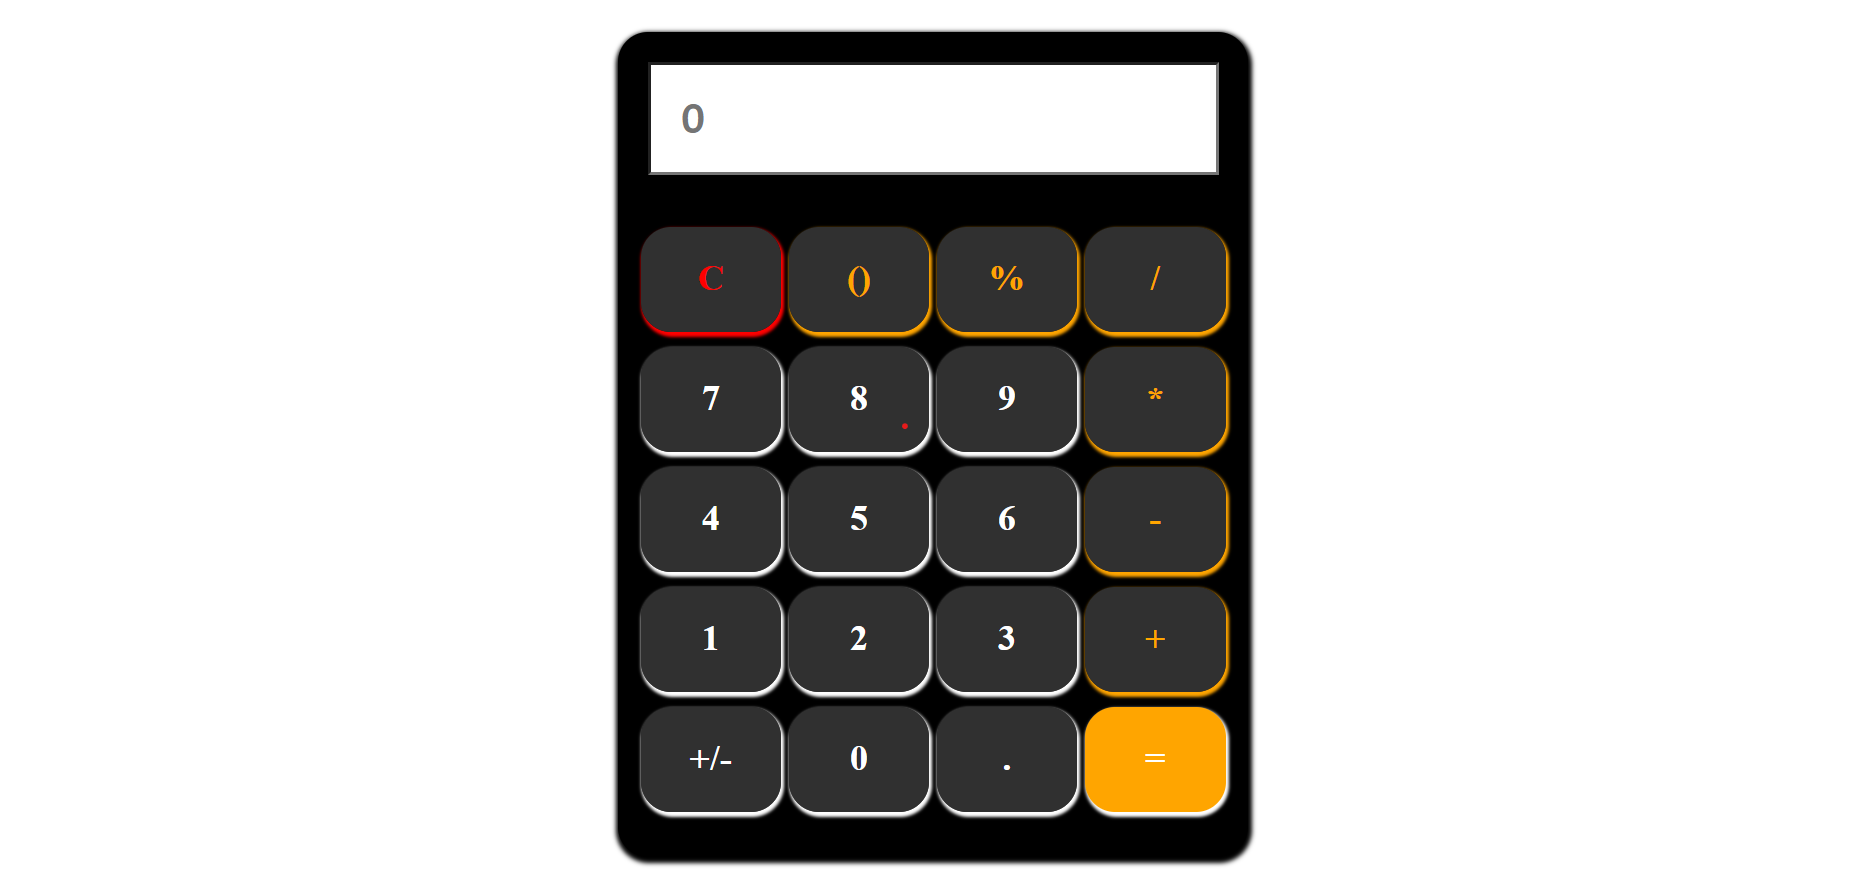
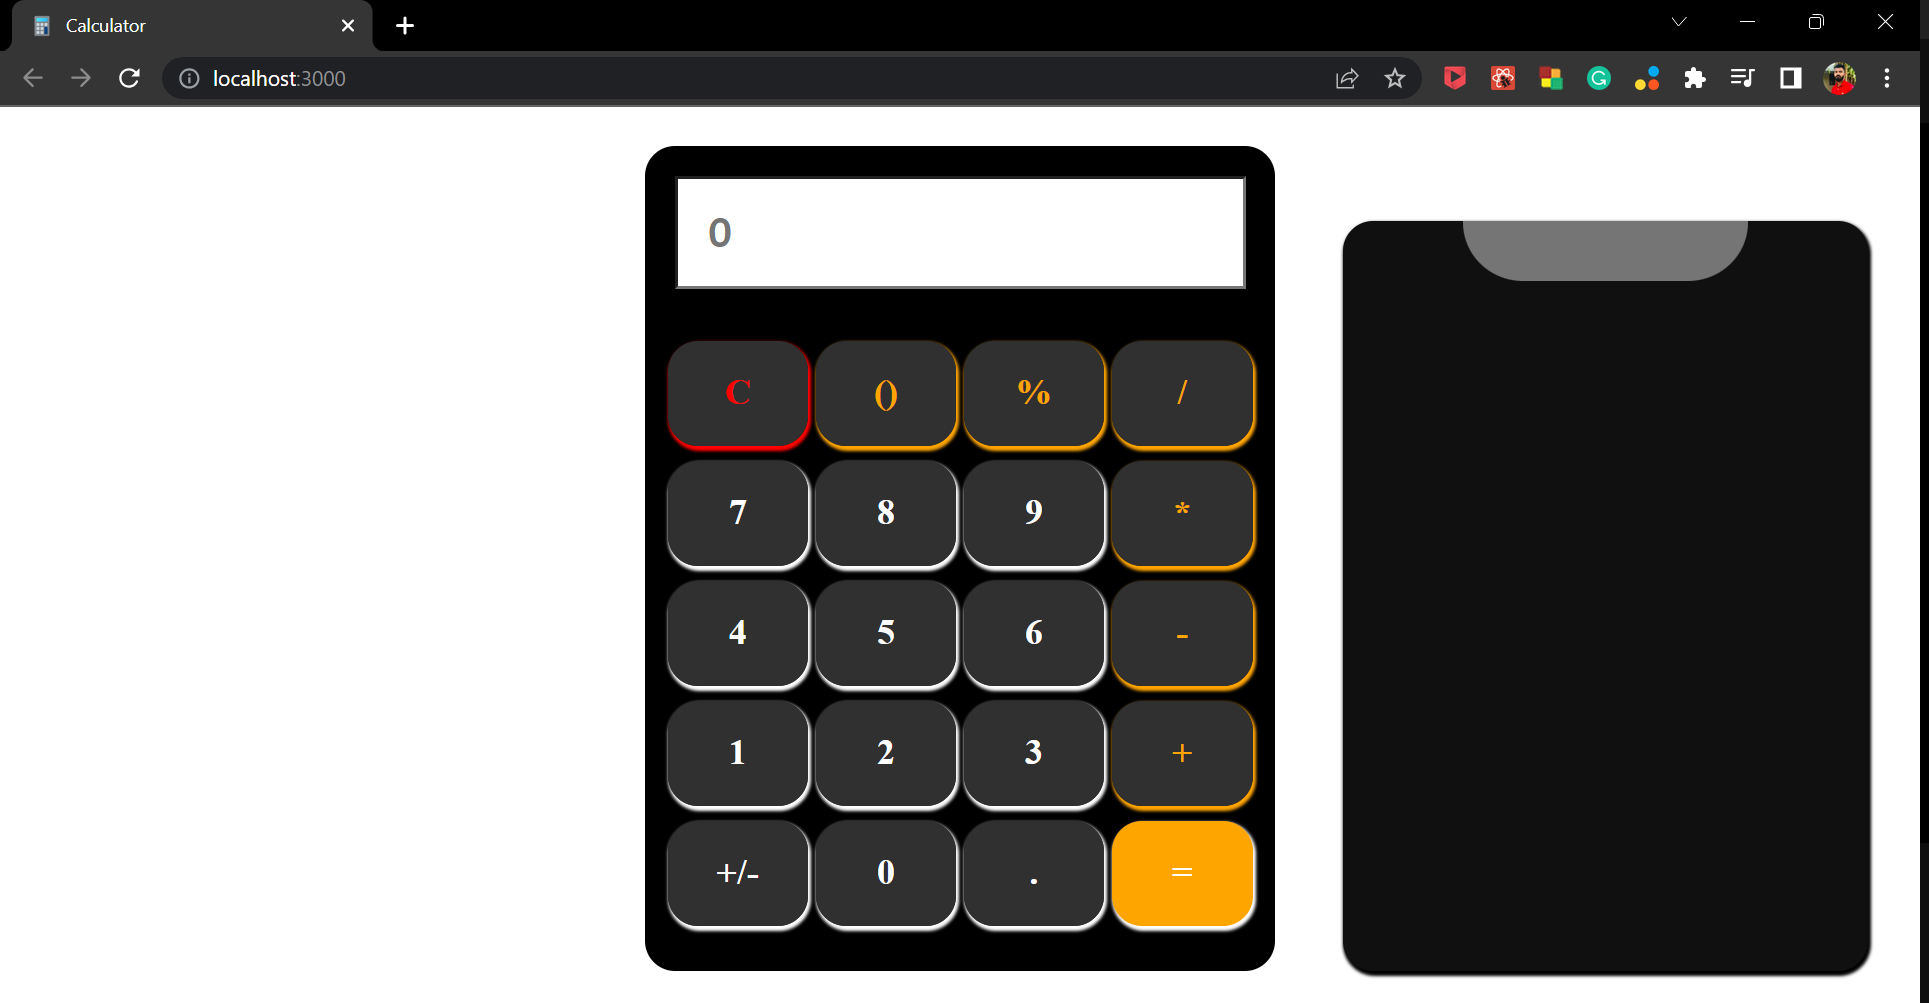
did some update

diff --git a/src/App.css b/src/App.css
@@ -1,3 +1,7 @@
+::-webkit-scrollbar {
+  display: none;
+}
+
 .container {
   position: absolute;
   top: 0;
@@ -11,7 +15,7 @@
   background-color: black;
   padding: 10px;
   border-radius: 20px;
-  box-shadow: 1px 2px 3px 2px black;
+  
 
 }
 
@@ -20,5 +24,61 @@
   flex-direction: row;
   padding: 5px;
   column-gap: 5px;
+
+}
+
+.cover {
+  height: 550px;
+  width: 418px;
+  background-color: #101010;
+  position: absolute;
+  top: 0;
+  bottom: 0;
+  left: 0;
+  right: 0;
+  margin: auto;
+  box-shadow: 1px 2px 2px 1px;
+  border-radius: 20px;
+  animation-name: casing;
+  animation-duration: 5s;
+  animation-fill-mode:forwards;
+  opacity: 1;
+}
+
+@keyframes casing {
+  0% {
+    top: 0;
+    left: 0;
+  }
+  80% {
+    bottom: -1200px;
+    left: 0;
+    right: 0;
+    height: 550px;
+    width: 418px;
+  }
+  90%{
+    height: 550px;
+    width: 418px;
+ 
+  }
+  100% {
+    top: 50px;
+    left: 860px;
+    width: 350px;
+    height: 500px;
+  }
+}
+
+.cercle {
+  width: 190px;
+  height: 40px;
+  border-bottom-left-radius: 50px;
+  border-bottom-right-radius: 50px;
+  margin: auto;
+  left: 0;
+  right: 0;
+  position: absolute;
+  background-color: #757575;
 
 }

diff --git a/public/index.html b/public/index.html
@@ -2,7 +2,7 @@
 <html lang="en">
   <head>
     <meta charset="utf-8" />
-    <link rel="icon" href="%PUBLIC_URL%/favicon.ico" />
+    <link rel="icon" href="cal.png" />
     <meta name="viewport" content="width=device-width, initial-scale=1" />
     <meta name="theme-color" content="#000000" />
     <meta
@@ -24,7 +24,7 @@
       work correctly both with client-side routing and a non-root public URL.
       Learn how to configure a non-root public URL by running `npm run build`.
     -->
-    <title>React App</title>
+    <title>Calculator</title>
   </head>
   <body>
     <noscript>You need to enable JavaScript to run this app.</noscript>

diff --git a/src/App.js b/src/App.js
@@ -57,6 +57,9 @@ const App = () => {
           <Button symbol="=" backgroundColor="orange" handleClick={calculate} />
         </div>
       </div>
+      <div class="cover">
+        <div class="cercle"></div>
+    </div>
     </div>
   );
 }

diff --git a/src/components/Button.css b/src/components/Button.css
@@ -18,3 +18,7 @@
     font-size: 24px;
     font-weight: bold;
 }
+
+.btn:hover {
+    background-color: #32323290;
+}
